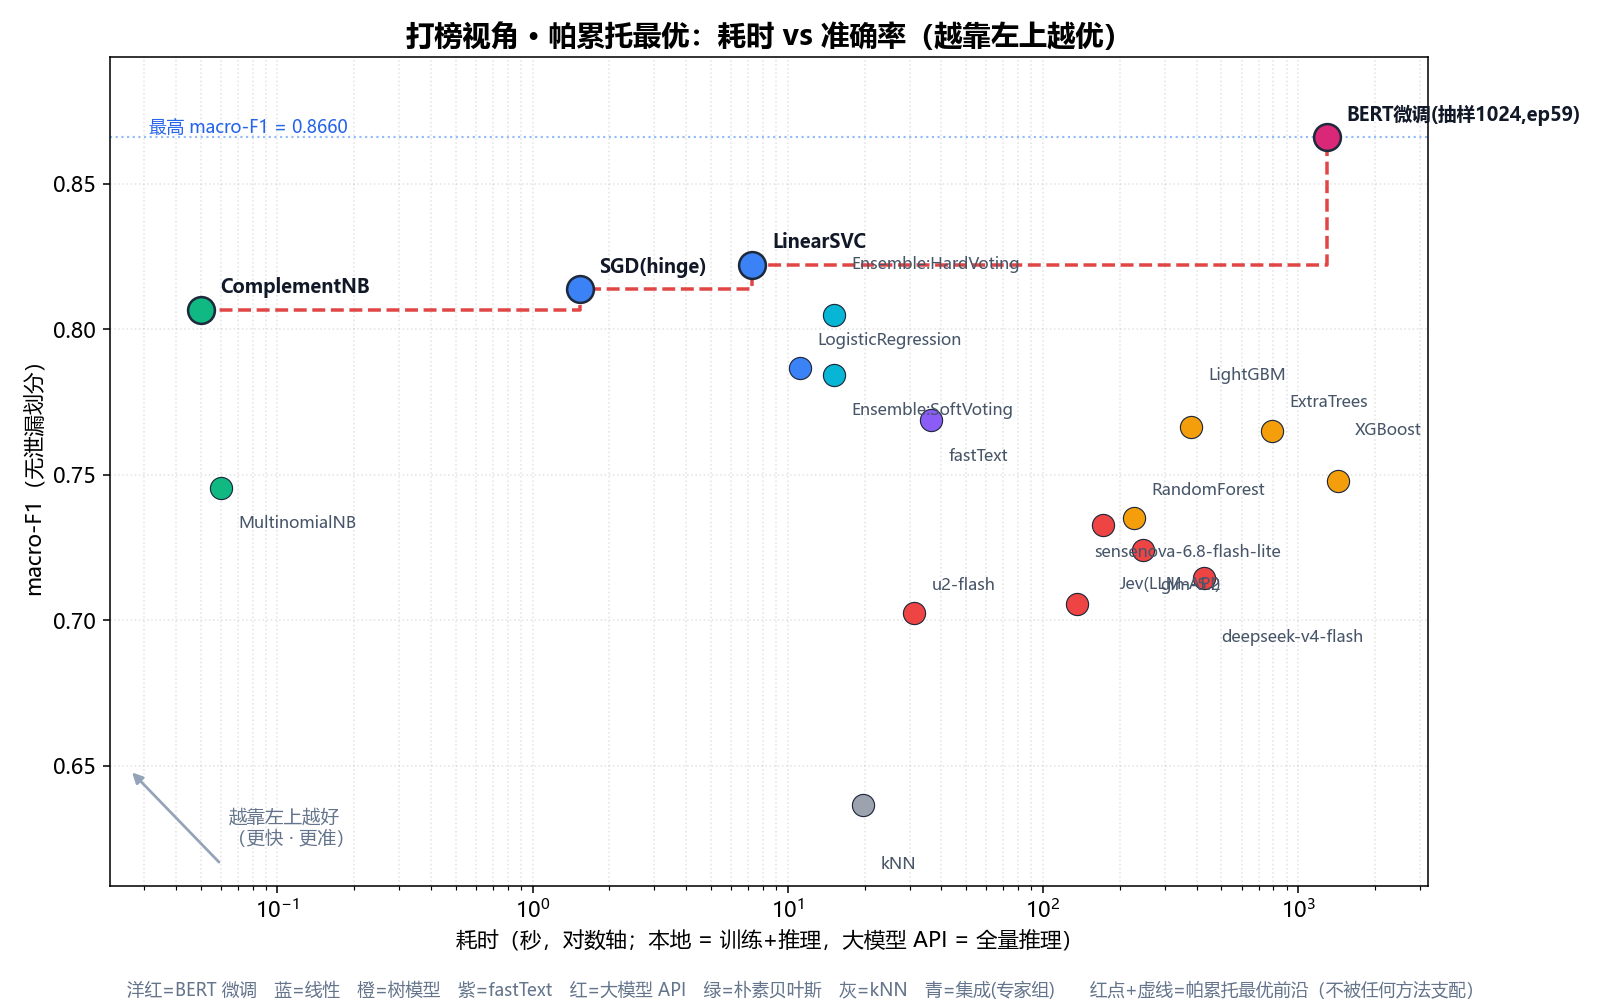
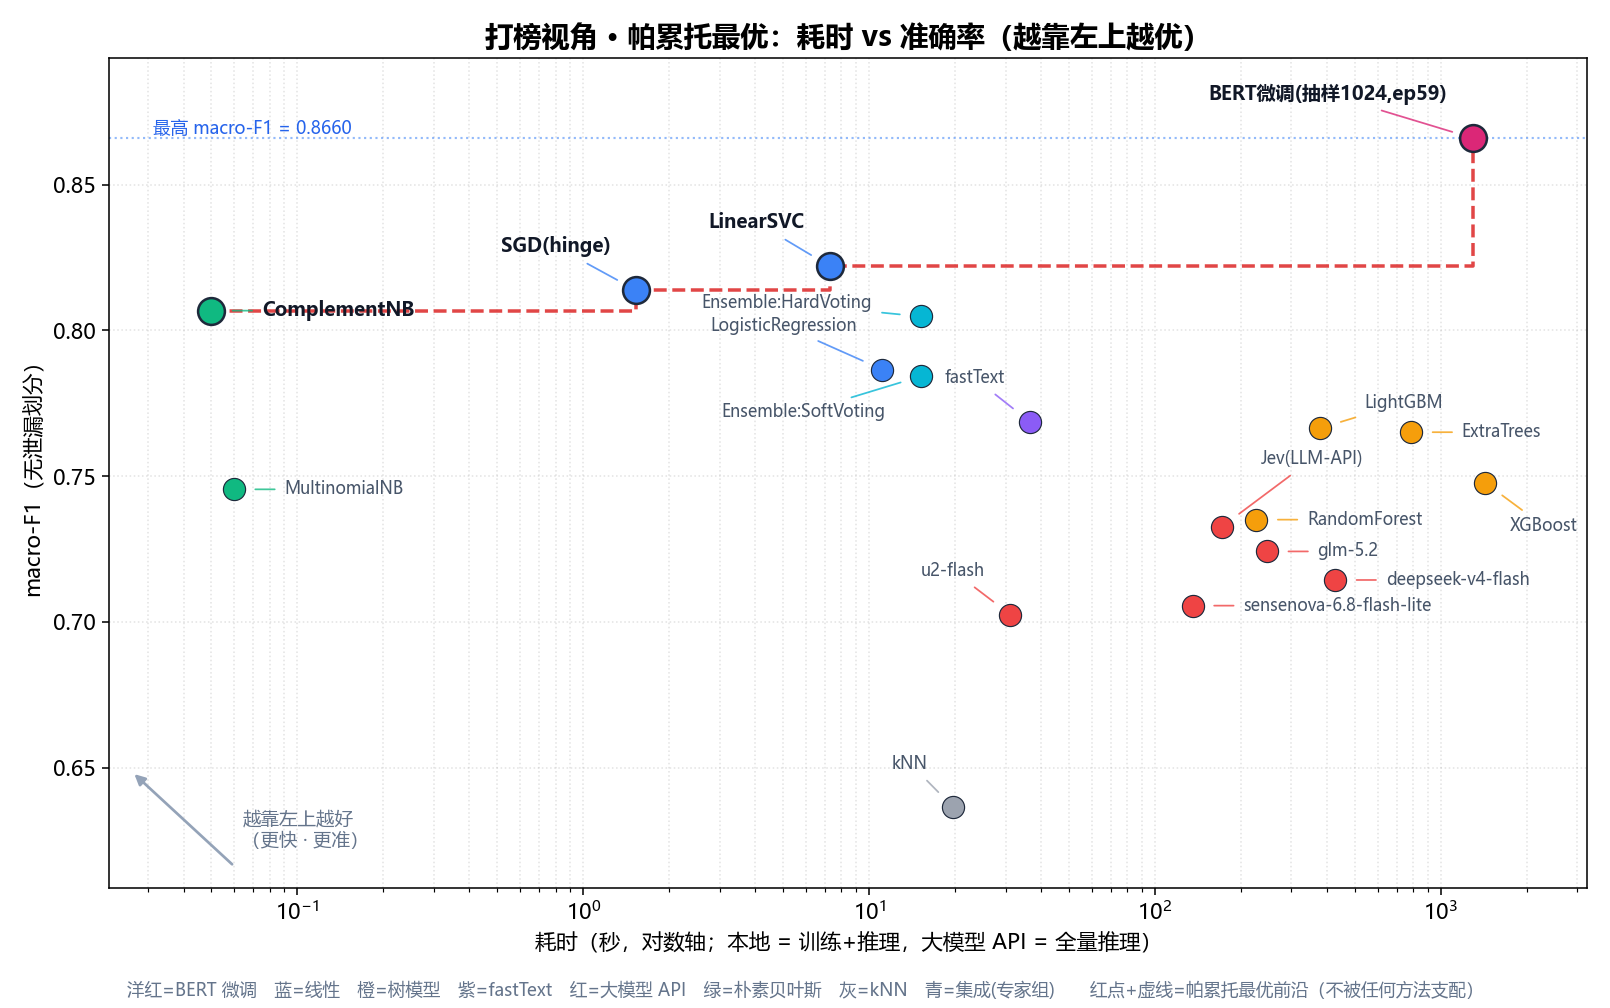
fix: 帕累托图标签改为引线标注(名称不再压点，引线相连)
- 标签排版重写为候选方位贪心占位：每个标签在角度×半径候选里挑冲突代价最小的
  位置，帕累托前沿优先，硬约束优先(不压点、引线不穿点)
- 名称与数据点用同色细引线相连，文字与点彻底分离
- 修正三个隐性坑：坐标轴/tight_layout 需先定型再做标签排版；画布 dpi 与导出
  dpi 必须一致(否则像素自检错位 1.4 倍)；annotate 引线其实从文字框中心出发
- 新增两级自检：几何口径(标签互叠/压点) + 像素地面真值(隐藏标签前后做差分)，
  当前均为 0

diff --git a/resources/make_pareto_fig.py b/resources/make_pareto_fig.py
@@ -2,6 +2,20 @@
 """打榜风格的帕累托图：横轴=耗时(秒,对数)，纵轴=macro-F1，原点在左下角，
 并绘制帕累托最优边界（越靠左上越好：同样耗时下准确率最高、同样准确率下最快）。
 
+标签排版：方法名与数据点分离，用细引线相连；每个标签在一组候选方位里贪心挑
+"冲突代价最小"的位置（帕累托前沿优先占位），并回避数据点圆盘与其它标签。
+最后用"隐藏标签前后做像素差分"做地面真值自检，确认没有东西画到数据点上。
+
+四个必须记住的坑：
+  1) 坐标轴（set_xscale / margins）与 tight_layout 必须先定型，再做标签排版，
+     否则算出的像素坐标与最终画布不一致。
+  2) 画布 dpi 必须与导出 dpi 一致（这里统一用 DPI 常量），否则显示坐标与 PNG
+     像素差 dpi/100 倍，像素级自检会落在错误位置。
+  3) annotate 的引线是从"文字框中心"（relpos 默认 (0.5, 0.5)）画到数据点的，
+     不是从文字边缘锚点出发；按锚点建模会低估引线长度、漏判穿孔。
+  4) Annotation.get_window_extent() 返回的是"文字 + 引线"的联合外框，不能当
+     文字盒子用，要另建同字号临时 Text 来测。
+
 输出：resources/figures/10_pareto.png
 """
 import os, json
@@ -14,6 +28,9 @@ from matplotlib import rcParams
 rcParams["font.sans-serif"] = ["Microsoft YaHei", "SimHei"]
 rcParams["axes.unicode_minus"] = False
 rcParams["font.size"] = 11
+
+DPI = 140          # 画布与导出统一用这个 dpi（像素自检按它算）
+FIG_W, FIG_H = 11.5, 7.2
 
 ROOT = os.path.dirname(os.path.dirname(os.path.abspath(__file__)))
 RES = os.path.join(ROOT, "resources")
@@ -72,13 +89,18 @@ for p in pts:
         pareto.append(p)
 pareto.sort(key=lambda x: x["t"])
 
+
+def is_pareto(p):
+    return any(p is q for q in pareto)
+
+
 BG = "#ffffff"
-fig, ax = plt.subplots(figsize=(11.5, 7.2), facecolor=BG)
+fig, ax = plt.subplots(figsize=(FIG_W, FIG_H), facecolor=BG, dpi=DPI)
 ax.set_facecolor(BG)
 
 # 数据点
 for p in pts:
-    on = any(p is q for q in pareto)
+    on = is_pareto(p)
     ax.scatter(p["t"], p["f1"], s=190 if on else 130,
                color=color(p["name"]), edgecolor="#1e293b",
                linewidth=1.3 if on else 0.6, zorder=3)
@@ -95,29 +117,7 @@ if pareto:
     ax.plot(xs, ys, color="#dc2626", ls="--", lw=1.8, alpha=0.85,
             zorder=2, label="帕累托最优边界")
 
-# 标注：按 x 排序后，相邻点交替上下偏移，减少碰撞
-# 标注：按 x 排序；给重叠密集区做多级垂直错位，减少碰撞
-def short(n):
-    return n.replace("LLM:", "").replace("(cosine)", "")
-
-
-order = sorted(pts, key=lambda x: x["t"])
-for i, p in enumerate(order):
-    on = any(p is q for q in pareto)
-    if on:
-        xytext, va = (10, 6), "bottom"
-    else:
-        # 以对数耗时分成若干列，同列内交替上下偏移
-        lev = i % 4
-        dy = [10, -14, 22, -26][lev]
-        xytext, va = (9, dy), ("bottom" if dy > 0 else "top")
-    ax.annotate(short(p["name"]), (p["t"], p["f1"]),
-                textcoords="offset points", xytext=xytext,
-                fontsize=9.6 if on else 8.4,
-                fontweight="bold" if on else "normal",
-                color="#111827" if on else "#475569", zorder=4,
-                ha="left", va=va)
-
+# ---- 坐标轴先定型：对数轴、标题、参考线、外边距 ----
 ax.set_xscale("log")
 ax.set_xlabel("耗时（秒，对数轴；本地 = 训练+推理，大模型 API = 全量推理）",
               fontsize=11)
@@ -146,9 +146,200 @@ fig.text(0.5, 0.012,
          "洋红=BERT 微调　蓝=线性　橙=树模型　紫=fastText　红=大模型 API　绿=朴素贝叶斯　灰=kNN　青=集成(专家组)　"
          "　红点+虚线=帕累托最优前沿（不被任何方法支配）",
          ha="center", fontsize=9, color="#64748b")
-plt.tight_layout(rect=[0, 0.03, 1, 1])
+plt.tight_layout(rect=[0, 0.03, 1, 1])   # 必须先于标签排版：它会改变 axes 位置
 
-p = os.path.join(OUT, "10_pareto.png")
-fig.savefig(p, dpi=140, facecolor=BG)
-print("已写:", p)
+
+# ============ 标签排版：名称与点分离，引线相连，候选方位贪心选优 ============
+def short(n):
+    return n.replace("LLM:", "").replace("(cosine)", "")
+
+
+def to_px(xy):
+    """数据坐标 -> 显示像素（始终取当前 transform）。"""
+    return ax.transData.transform(xy)
+
+
+SHRINK_A, SHRINK_B = 3.0, 11.0   # 引线两端内缩（点），与 annotate 设置保持一致
+anns = []
+for p in sorted(pts, key=lambda x: x["t"]):
+    on = is_pareto(p)
+    t = ax.annotate(short(p["name"]), (p["t"], p["f1"]),
+                    textcoords="offset points", xytext=(0, 0),
+                    fontsize=9.8 if on else 8.5,
+                    fontweight="bold" if on else "normal",
+                    color="#111827" if on else "#475569", zorder=6,
+                    ha="left", va="center",
+                    arrowprops=dict(arrowstyle="-", lw=0.9,
+                                    color=color(p["name"]), alpha=0.8,
+                                    shrinkA=SHRINK_A, shrinkB=SHRINK_B))
+    anns.append((p, t, on))
+
+fig.canvas.draw()
+_rend = fig.canvas.get_renderer()
+_axbb = ax.get_window_extent(renderer=_rend)
+_PT = DPI / 72.0                        # 1 point -> 像素
+
+# 文字真实外框偏移：Annotation.get_window_extent() 会把引线也算进去，
+# 不能拿来当文字盒子，这里用同字号的临时 Text 精确量"锚点 -> 文字外框"。
+PROBE = {}
+_tmp = []
+for p, t, on in anns:
+    for ha in ("left", "right"):
+        tx = ax.text(p["t"], p["f1"], short(p["name"]),
+                     fontsize=9.8 if on else 8.5,
+                     fontweight="bold" if on else "normal",
+                     ha=ha, va="center", alpha=0.0)
+        _tmp.append((id(t), ha, tx, p))
+fig.canvas.draw()
+for k, ha, tx, p in _tmp:
+    bb = tx.get_window_extent(renderer=_rend)
+    P = to_px((p["t"], p["f1"]))
+    dxr = (bb.x0 - P[0]) if ha == "left" else (bb.x1 - P[0])
+    PROBE[(k, ha)] = (bb.width, bb.height, dxr,
+                      (bb.y0 + bb.y1) / 2 - P[1])
+    tx.remove()
+fig.canvas.draw()
+
+# 数据点障碍盒：半径由散点面积(s, pt^2)反算；s=190/130 在 140dpi 下直径约 30/26 px
+OBST = []
+for p in pts:
+    _r = np.sqrt((190.0 if is_pareto(p) else 130.0) / np.pi) * _PT
+    _c = to_px((p["t"], p["f1"]))
+    OBST.append((_c[0], _c[1], 2 * _r + 2.0, 2 * _r + 2.0, p))
+
+PAD = 3.0
+ANGLES = np.arange(0.0, 360.0, 15.0)
+RADII = (26.0, 40.0, 56.0, 74.0, 94.0, 118.0, 146.0)          # 引线长度候选（点）
+_xbar = float(np.mean([to_px((p["t"], p["f1"]))[0] for p in pts]))
+
+
+def pen(cx, cy, w, h, ox, oy, ow, oh):
+    """带内边距的穿透代价（截断，避免大标签把权重吃光）。"""
+    dx = (w + ow) / 2 + PAD - abs(cx - ox)
+    dy = (h + oh) / 2 + PAD - abs(cy - oy)
+    if dx <= 0 or dy <= 0:
+        return 0.0
+    return min(dx, 25.0) * min(dy, 20.0)
+
+
+def seg_hits_disk(A, B, c, r):
+    """线段 A->B 是否穿过圆心 c 半径 r 的圆盘。"""
+    AB = B - A
+    t = float(np.dot(c - A, AB)) / max(float(np.dot(AB, AB)), 1e-9)
+    t = min(1.0, max(0.0, t))
+    return float(np.hypot(*(A + t * AB - c))) < r
+
+
+# 帕累托前沿（加粗、最重要）先占位，其余按标签宽度从大到小
+seq = sorted(anns, key=lambda a: (0 if a[2] else 1,
+                                  -PROBE[(id(a[1]), "left")][0]))
+placed, relax = [], []
+for p, t, on in seq:
+    P = to_px((p["t"], p["f1"]))
+    cands = []
+    for rad in RADII:
+        for ang in ANGLES:
+            ux, uy = float(np.cos(np.radians(ang))), float(np.sin(np.radians(ang)))
+            if abs(ux) < 0.35:                  # 不用正上/正下，避免标签竖成一列
+                continue
+            ha = "left" if ux >= 0 else "right"
+            w, h, dxr, dyr = PROBE[(id(t), ha)]
+            dx, dy = ux * rad, uy * rad
+            ax_, ay_ = P[0] + dx * _PT, P[1] + dy * _PT
+            x0 = (ax_ + dxr) if ha == "left" else (ax_ + dxr - w)
+            cx, cy = x0 + w / 2, ay_ + dyr
+            if (cx - w / 2 < _axbb.x0 + 3 or cx + w / 2 > _axbb.x1 - 3 or
+                    cy - h / 2 < _axbb.y0 + 3 or cy + h / 2 > _axbb.y1 - 3):
+                continue                        # 出界直接否决
+            obst_pen = 0.0
+            for (ox, oy, ow, oh, _op) in OBST:
+                obst_pen += pen(cx, cy, w, h, ox, oy, ow, oh)
+            # 引线穿越数据点圆盘：注意 annotate 的引线是从"文字框中心"
+            # （relpos 默认 (0.5,0.5)）画到数据点的，不是从文字边缘锚点出发，
+            # 用锚点建模会低估长度、漏判穿孔。末端还要按 shrinkB 截掉。
+            _CA = np.array([cx, cy])
+            _d = P - _CA
+            _L = float(np.hypot(*_d))
+            _u = _d / _L if _L > 1e-9 else np.array([1.0, 0.0])
+            _A2 = _CA + _u * (SHRINK_A * _PT)
+            _B2 = P - _u * (SHRINK_B * _PT)
+            cross = 0
+            for (ox, oy, ow, oh, _op) in OBST:
+                if seg_hits_disk(_A2, _B2, np.array([ox, oy]), ow / 2 + 1.5):
+                    cross += 1
+            cost = 1.0 * obst_pen + 60.0 * cross
+            for (pcx, pcy, pw, ph) in placed:
+                c2 = 3.0 * pen(cx, cy, w, h, pcx, pcy, pw, ph)
+                if abs(cy - pcy) < 0.5 * min(h, ph):
+                    c2 *= 2.4                   # 同一水平线：额外要求整行间隙
+                cost += c2
+            if (ux > 0) == (P[0] < _xbar):      # 引线别朝数据云内部扎
+                cost += 25.0
+            cost += 0.5 * rad                   # 引线越短越好
+            cands.append((cost, obst_pen, cross, dx, dy, ha, cx, cy, w, h))
+    # 硬约束优先：先只在"不压点且引线不穿点"的候选里挑，全不满足才退让
+    strict = [c for c in cands if c[1] <= 4.0 and c[2] == 0]
+    best = min(strict or cands, key=lambda c: c[0]) if cands else None
+    if best is None:                            # 兜底
+        _w0, _h0, _dxr0, _dyr0 = PROBE[(id(t), "left")]
+        best = (1e9, 0.0, 0, 30.0, 0.0, "left",
+                P[0] + 30.0 * _PT + _dxr0 + _w0 / 2, P[1] + _dyr0, _w0, _h0)
+    _c, _op, _cr, dx, dy, ha, cx, cy, w, h = best
+    if _op > 4.0 or _cr > 0:                    # 无严格可行解，只能退让
+        relax.append((p["name"], round(_op, 1), _cr))
+    t.set_position((dx, dy))
+    t.set_ha(ha)
+    placed.append((cx, cy, w, h))
+
+# ---- 复核一：几何口径（标签之间 / 标签与数据点）----
+bad = 0
+for i in range(len(placed)):
+    for j in range(i + 1, len(placed)):
+        cx, cy, w, h = placed[i]
+        pcx, pcy, pw, ph = placed[j]
+        if (abs(cx - pcx) < (w + pw) / 2 + PAD and
+                abs(cy - pcy) < (h + ph) / 2 + PAD):
+            bad += 1
+hit = 0
+for (cx, cy, w, h) in placed:
+    for (ox, oy, ow, oh, _op) in OBST:
+        if (abs(cx - ox) < (w + ow) / 2 and abs(cy - oy) < (h + oh) / 2):
+            hit += 1
+
+# ---- 复核二：像素地面真值（渲染差分：标签/引线是否盖住数据点）----
+# 按文字颜色取墨迹会误伤标记描边的抗锯齿混色，改为"隐藏标签前后做像素差分"：
+# 圆内部若出现差异像素，说明确有东西画到了点上。
+fig.canvas.draw()
+buf_on = np.asarray(fig.canvas.buffer_rgba())[..., :3].astype(int).copy()
+for _, t, _ in anns:
+    t.set_visible(False)
+fig.canvas.draw()
+buf_off = np.asarray(fig.canvas.buffer_rgba())[..., :3].astype(int).copy()
+for _, t, _ in anns:
+    t.set_visible(True)
+
+diff = np.abs(buf_on - buf_off).sum(axis=2) > 20
+_H, _W = diff.shape[:2]
+assert (_H, _W) == (int(round(FIG_H * DPI)), int(round(FIG_W * DPI))), \
+    f"画布尺寸 {(_H, _W)} 与导出不一致，像素坐标会错位"
+_yy, _xx = np.mgrid[0:_H, 0:_W]
+covered = []
+for p in pts:
+    cx, cy = to_px((p["t"], p["f1"]))
+    r = np.sqrt((190.0 if is_pareto(p) else 130.0) / np.pi) * _PT
+    row = _H - 1 - cy                       # buffer 行号自顶向下
+    disk = (_xx - cx) ** 2 + (_yy - row) ** 2 <= max(r - 1.5, 1.0) ** 2
+    n = int((diff & disk).sum())
+    if n > 0:
+        yy2, xx2 = np.nonzero(diff & disk)
+        covered.append((p["name"], n,
+                        f"x:{xx2.min()}-{xx2.max()} y(row):{yy2.min()}-{yy2.max()}"))
+
+print("布局退让（无严格可行解）:", relax if relax else "无")
+print("几何复核 · 标签互叠:", bad, "| 标签压点:", hit)
+print("像素复核 · 被盖住的数据点:", covered if covered else "无")
 print("帕累托前沿成员:", [q["name"] for q in pareto])
+
+p_out = os.path.join(OUT, "10_pareto.png")
+fig.savefig(p_out, dpi=DPI, facecolor=BG)
+print("已写:", p_out)
